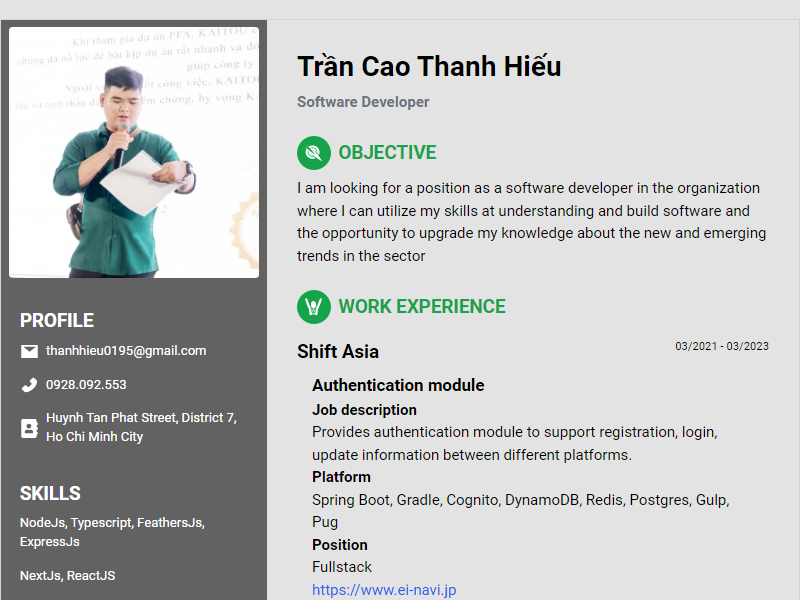
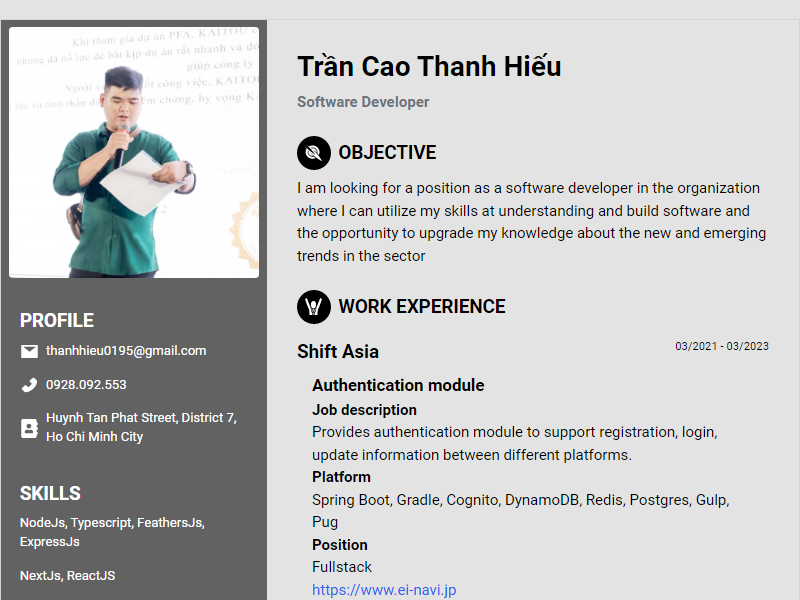
feat: add new CV

Changed region(s): [[0.375, 0.48, 0.625, 0.54], [0.375, 0.21, 0.5625, 0.3]]

diff --git a/components/ProfileTemplate3/index.tsx b/components/ProfileTemplate3/index.tsx
@@ -43,6 +43,11 @@ const Item = ({ item }: { item: Meta }) => {
 const ProfileTemplate3 = ({ user }: { user: User }) => {
   const themeDefault = useTheme();
   const theme = useOverrideTheme({
+    color2: "text-black",
+    primary: {
+      ...themeDefault.primary,
+      bgIcon: "bg-black",
+    },
     summary: {
       ...themeDefault.summary,
       bg: "bg-[#626262]",
@@ -109,7 +114,7 @@ const ProfileTemplate3 = ({ user }: { user: User }) => {
 
                     <div>
                       {item.projects.map((project, idx) => (
-                        <div className="px-4" key={idx}>
+                        <div className="px-4" key={"project" + idx}>
                           <DisplayField
                             extraClass="font-bold"
                             variant="sub-heading"
@@ -158,3 +163,4 @@ const ProfileTemplate3 = ({ user }: { user: User }) => {
 };
 
 export default ProfileTemplate3;
+

diff --git a/components/ProfileTemplate2/index.tsx b/components/ProfileTemplate2/index.tsx
@@ -135,8 +135,11 @@ const ProfileTemplate2 = ({ user }) => {
                           {item?.groupName}
                         </div>
                         <div className="flex gap-2 flex-wrap">
-                          {item?.data?.map((text: string) => (
-                            <span className={`${theme.primary.bg} p-1 rounded`}>
+                          {item?.data?.map((text: string, idx) => (
+                            <span
+                              key={idx + "item"}
+                              className={`${theme.primary.bg} p-1 rounded`}
+                            >
                               <div className="text-sm">{text}</div>
                             </span>
                           ))}

diff --git a/PDF-puppeteer/index.js b/PDF-puppeteer/index.js
@@ -16,7 +16,7 @@ const DELTA = 0.27;
     console.info("start save PDF");
 
     const page = await browser.newPage();
-    const userId = "tran-cao-thanh-hieu-03";
+    const userId = "tran-cao-thanh-hieu-04";
 
     await page.goto(`http://localhost:3000/profiles/${userId}`);
     await page.waitForTimeout(5000);
@@ -46,7 +46,7 @@ const DELTA = 0.27;
     });
 
     const actualWidth = width + 300;
-    const actualHeight = height - 400;
+    const actualHeight = height - 200;
 
     console.info("actualWidth", actualWidth);
     console.info("actualHeight", actualHeight);

diff --git a/pages/_app.tsx b/pages/_app.tsx
@@ -1,7 +1,7 @@
-import { AppProps } from "next/dist/next-server/lib/router/router";
 import React, { useState } from "react";
 import { useTheme } from "@/libs/theme";
 import "@/styles/globals.css";
+import { AppProps } from "next/app";
 
 function App({ Component, pageProps }: AppProps) {
   const theme = useTheme();

diff --git a/libs/models/User.type.ts b/libs/models/User.type.ts
@@ -28,6 +28,7 @@ export interface Project {
 }
 
 export interface Datum {
+  isReverse: boolean;
   subheading: string;
   time: string;
   projects: Project[];
